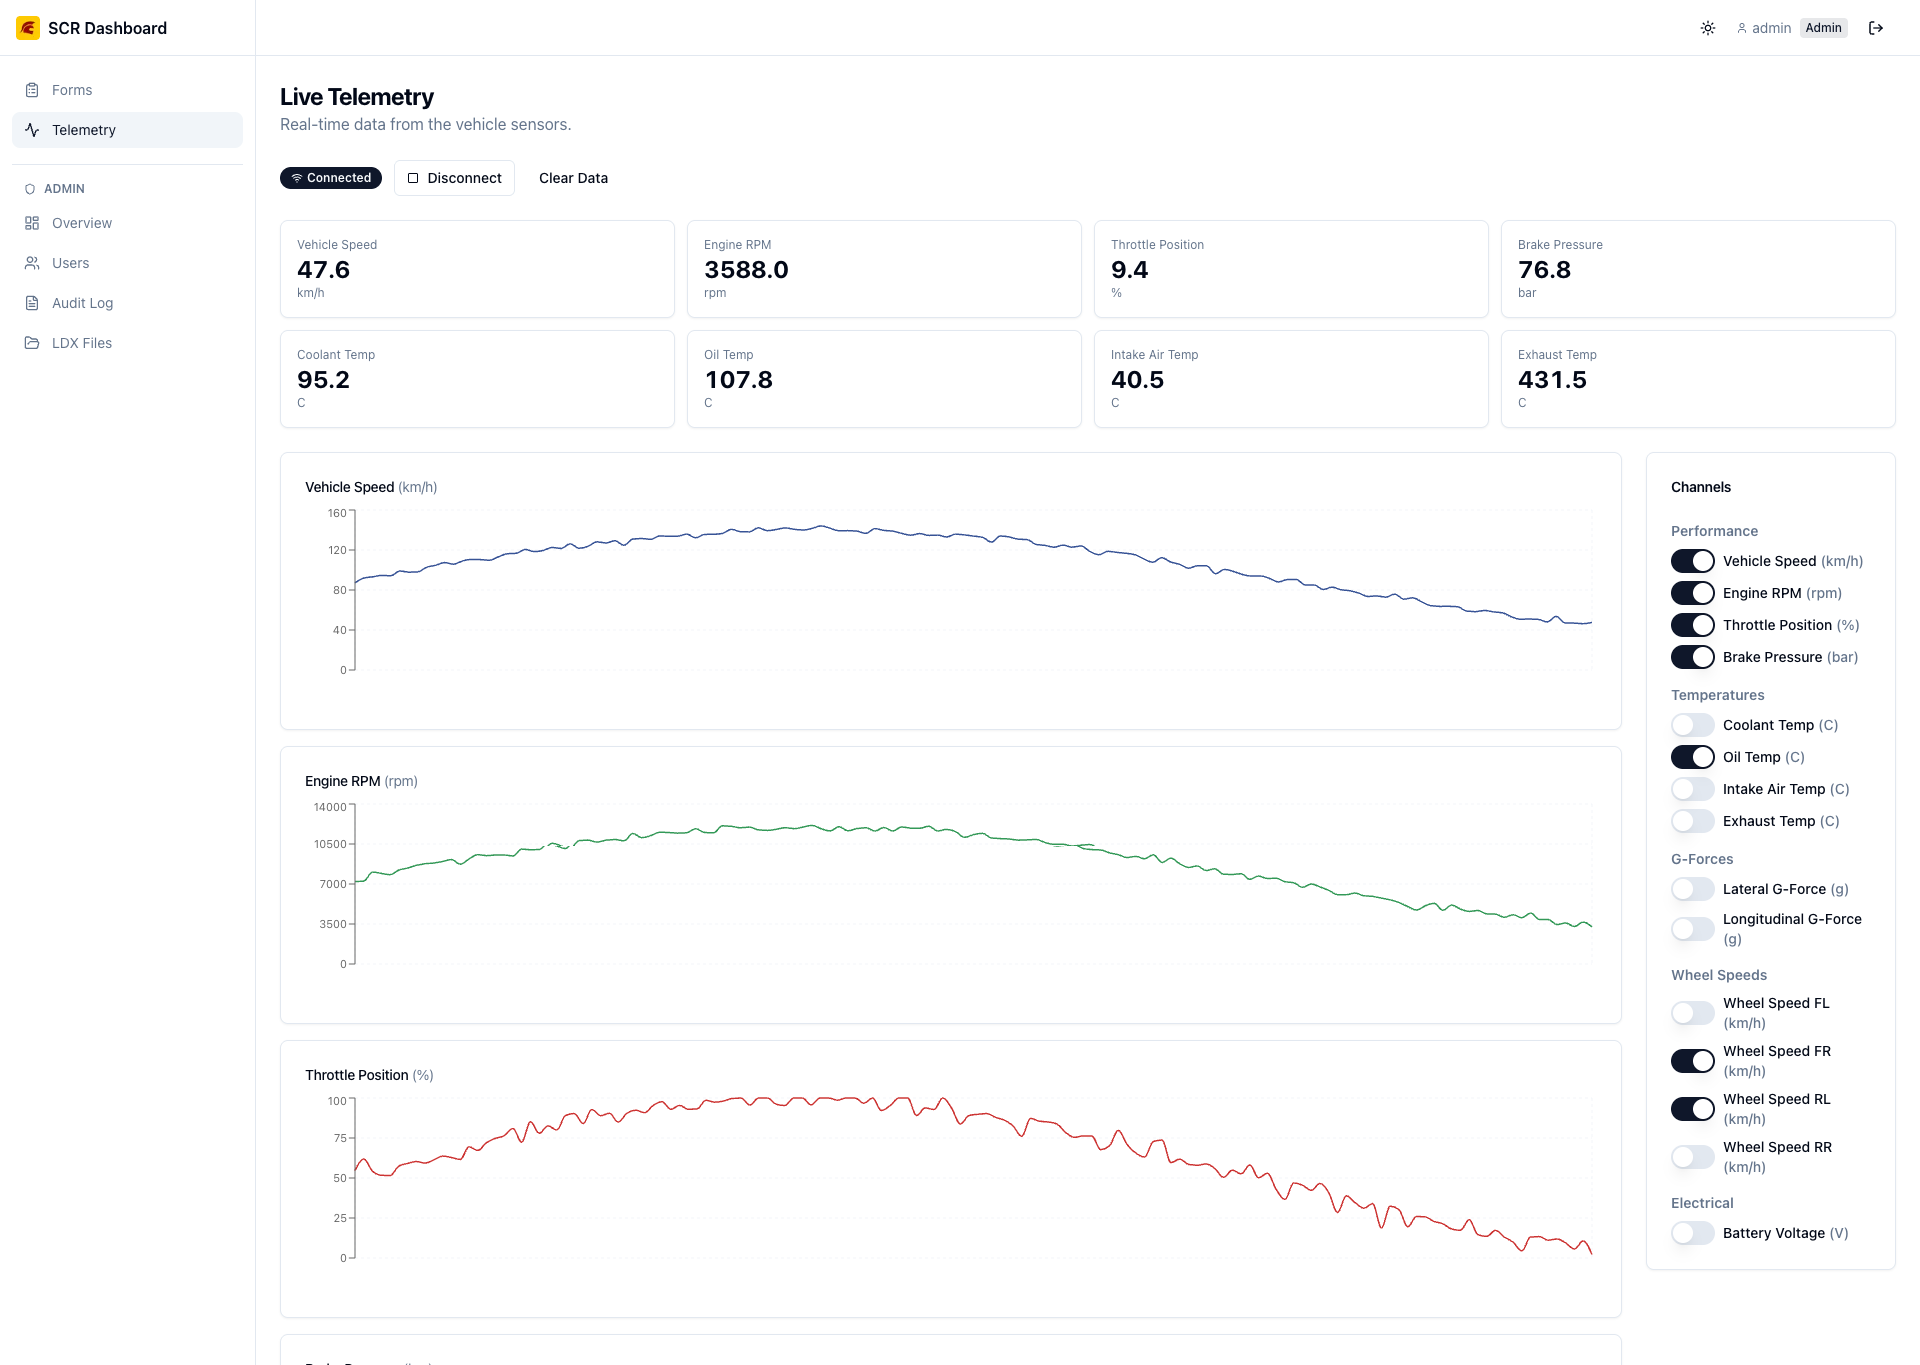
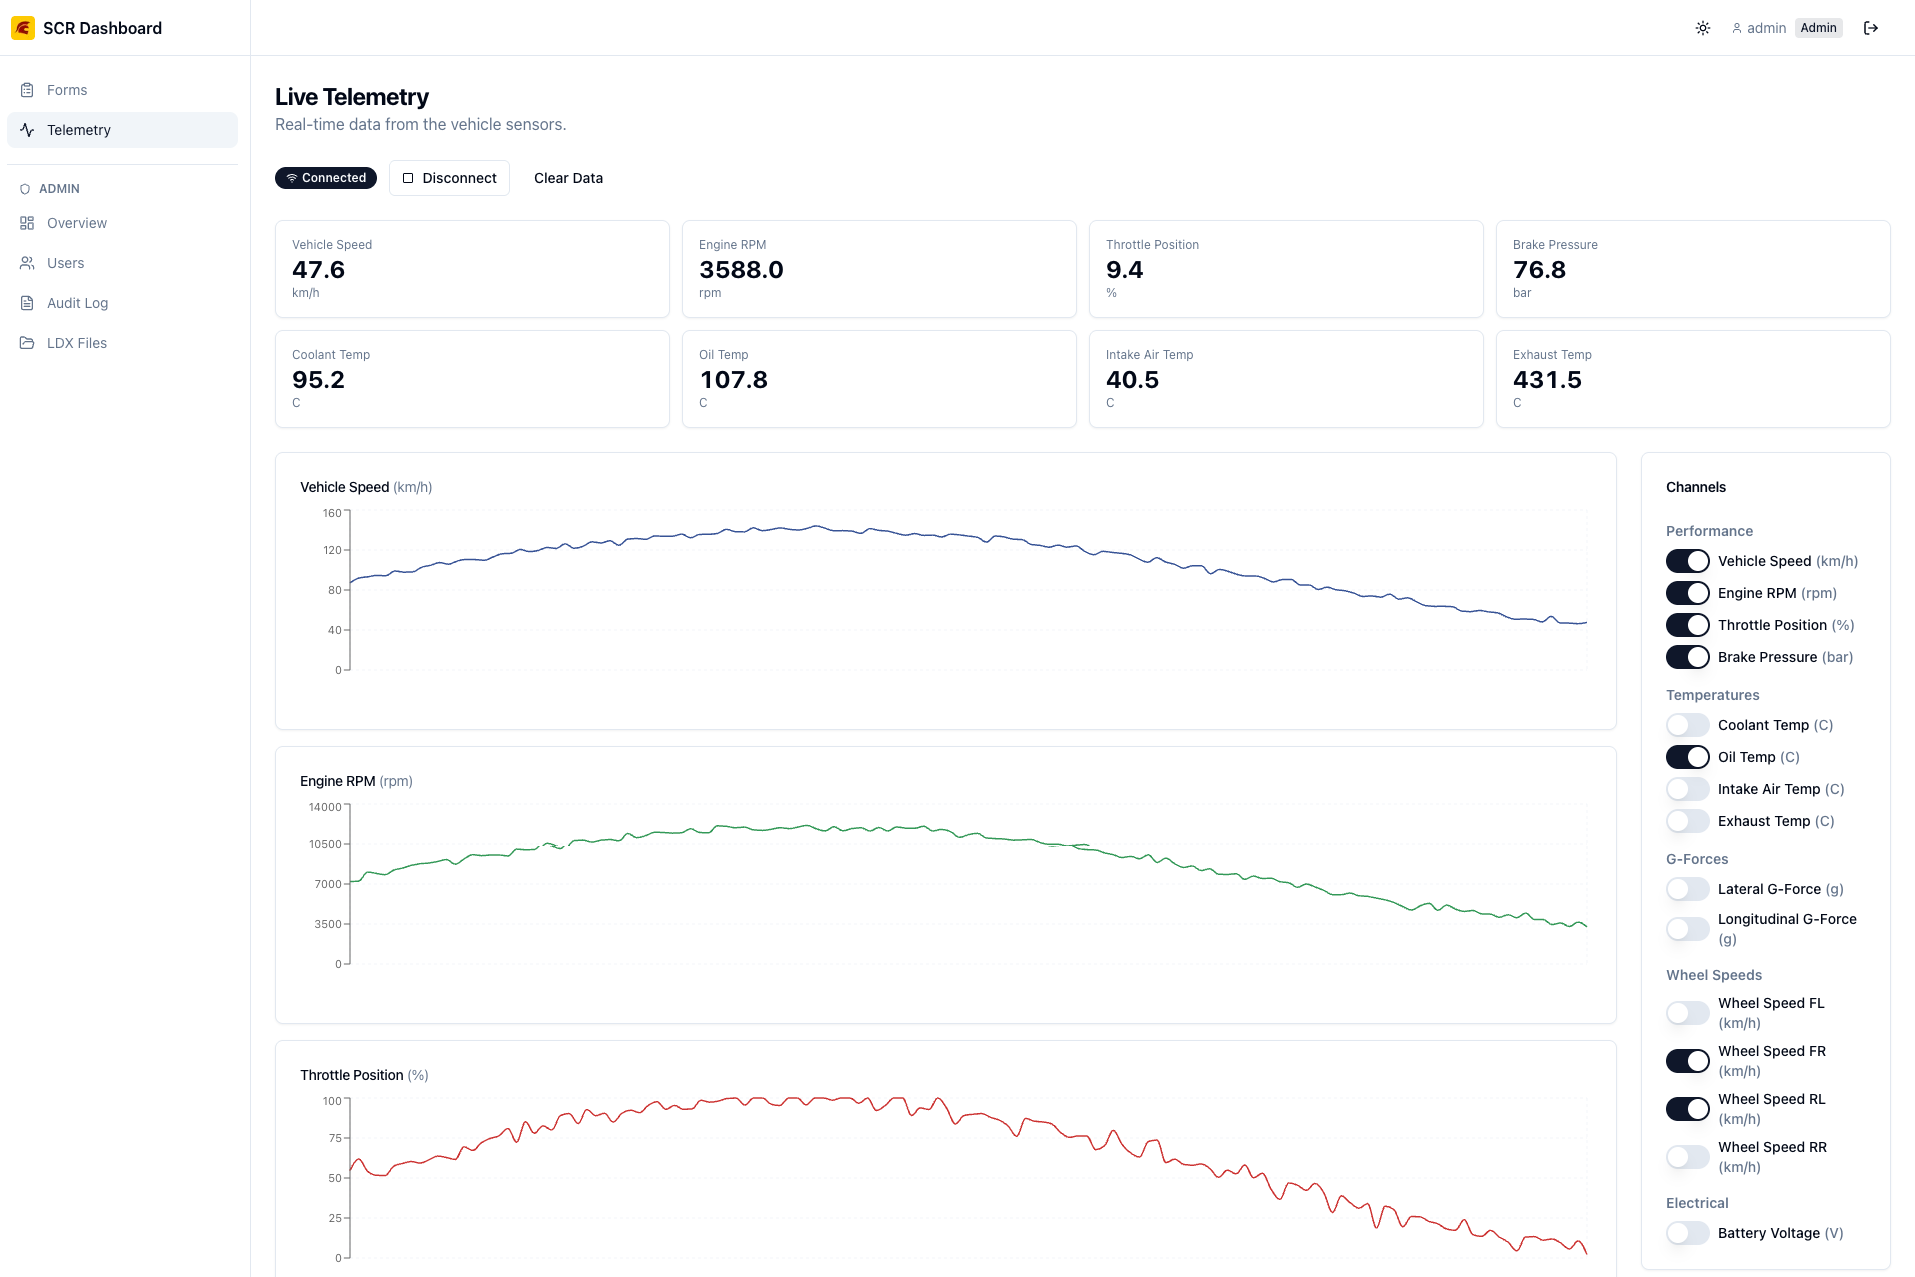
update telemetry screenshot and remove GitHub hyperlink from Formula SAE page

diff --git a/public/projects/formula-sae-dashboard.html b/public/projects/formula-sae-dashboard.html
@@ -43,7 +43,7 @@
             <h2 style="font-size:1.125rem;font-weight:700;margin:0 0 .5rem">USC Formula SAE Racing Team Dashboard</h2>
             <div class="project-tags" style="margin-bottom:1.5rem"><span class="tag">Next.js</span><span class="tag">telemetry</span><span class="tag">motorsport</span></div>
             <div class="project-content">
-                <p>Real-time telemetry dashboard for <a href="https://github.com/rlogger/Formula_SAE_Dashboard">USC Formula SAE Racing Team</a>. Built to monitor live sensor data from the race car during testing and competition runs.</p>
+                <p>Real-time telemetry dashboard for USC Formula SAE Racing Team. Built to monitor live sensor data from the race car during testing and competition runs.</p>
 <h2>Overview</h2>
 <p>The dashboard streams live data from the Formula SAE vehicle — covering throttle position, brake pressure, wheel speeds, suspension travel, and more — and visualizes it in a clean, driver-team-facing interface.</p>
 <h2>Stack</h2>

diff --git a/projects/formula-sae-dashboard.md b/projects/formula-sae-dashboard.md
@@ -5,7 +5,7 @@ tags: [Next.js, telemetry, motorsport]
 date: 2026-02-17
 ---
 
-Real-time telemetry dashboard for [USC Formula SAE Racing Team](https://github.com/rlogger/Formula_SAE_Dashboard). Built to monitor live sensor data from the race car during testing and competition runs.
+Real-time telemetry dashboard for USC Formula SAE Racing Team. Built to monitor live sensor data from the race car during testing and competition runs.
 
 ## Overview
 
